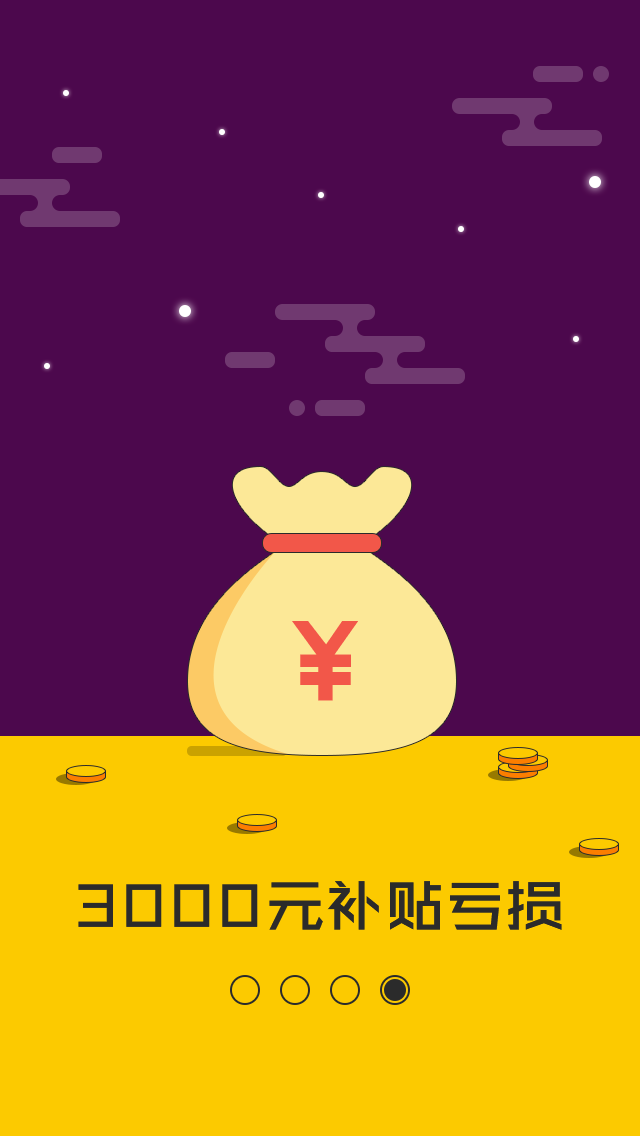
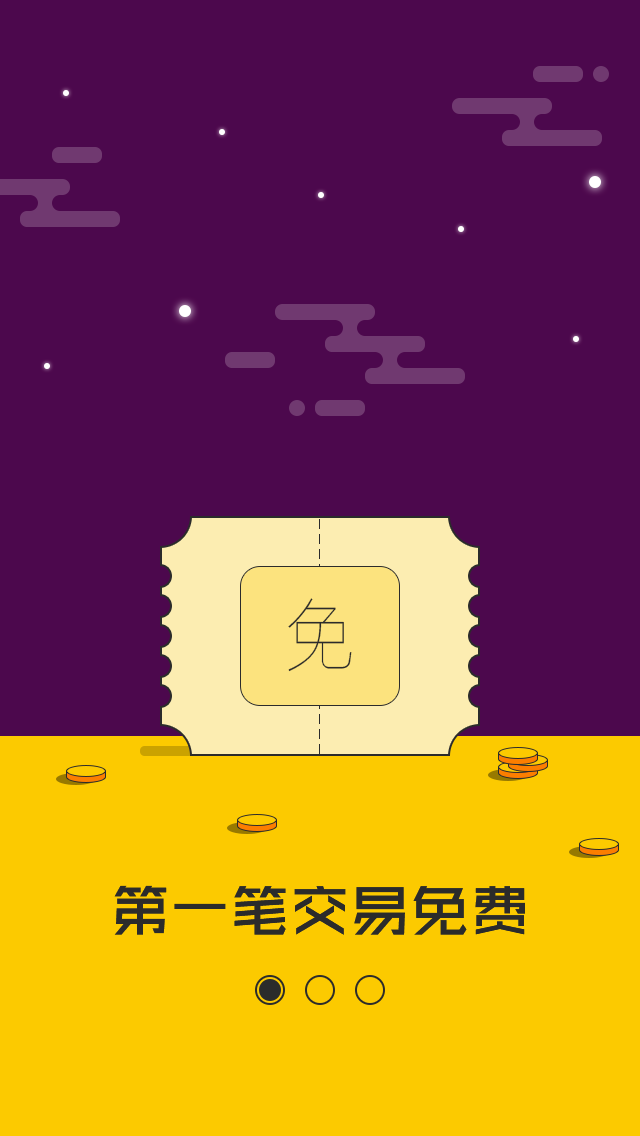
修改引导页图片

diff --git a/tzdr-app-web/guide.html b/tzdr-app-web/guide.html
@@ -247,7 +247,7 @@
                 <!-- 第一张 -->
                 <div class="mui-slider-item">
                     <div class="item-logo">
-                        <img src="images/startG4.png" style="width: 100%;height: 100%;">
+                        <img src="images/startG1.png" style="width: 100%;height: 100%;">
                     </div>
                 </div>
                 <!-- 第二张 -->
@@ -257,21 +257,21 @@
                     </div>
                 </div>
                 <!-- 第三张 -->
-                <div class="mui-slider-item">
+                <div class="mui-slider-item" id="test">
                     <div class="item-logo">
                         <img src="images/startG3.png" style="width: 100%;height: 100%;">
                     </div>
                 </div>         
                 <!-- 第五张 -->
-                <div class="mui-slider-item" id="test">
+                <!--<div class="mui-slider-item" >
                     <div class="item-logo">
                         <img src="images/startG1.png" style="width: 100%;height: 100%;">
                         <!--<div id="closeGuide">
                         	  <button id='close'  class="mui-btn mui-btn-warning mui-btn-outlined">立刻体验 <span class="mui-icon mui-icon-arrowright"></span></button>
-                        </div>-->
+                        </div>
                       
                     </div>
-                </div>
+                </div>-->
             </div>
 		 		<!--<div class="mui-slider-indicator">
 						<div class="mui-indicator mui-active"></div>
